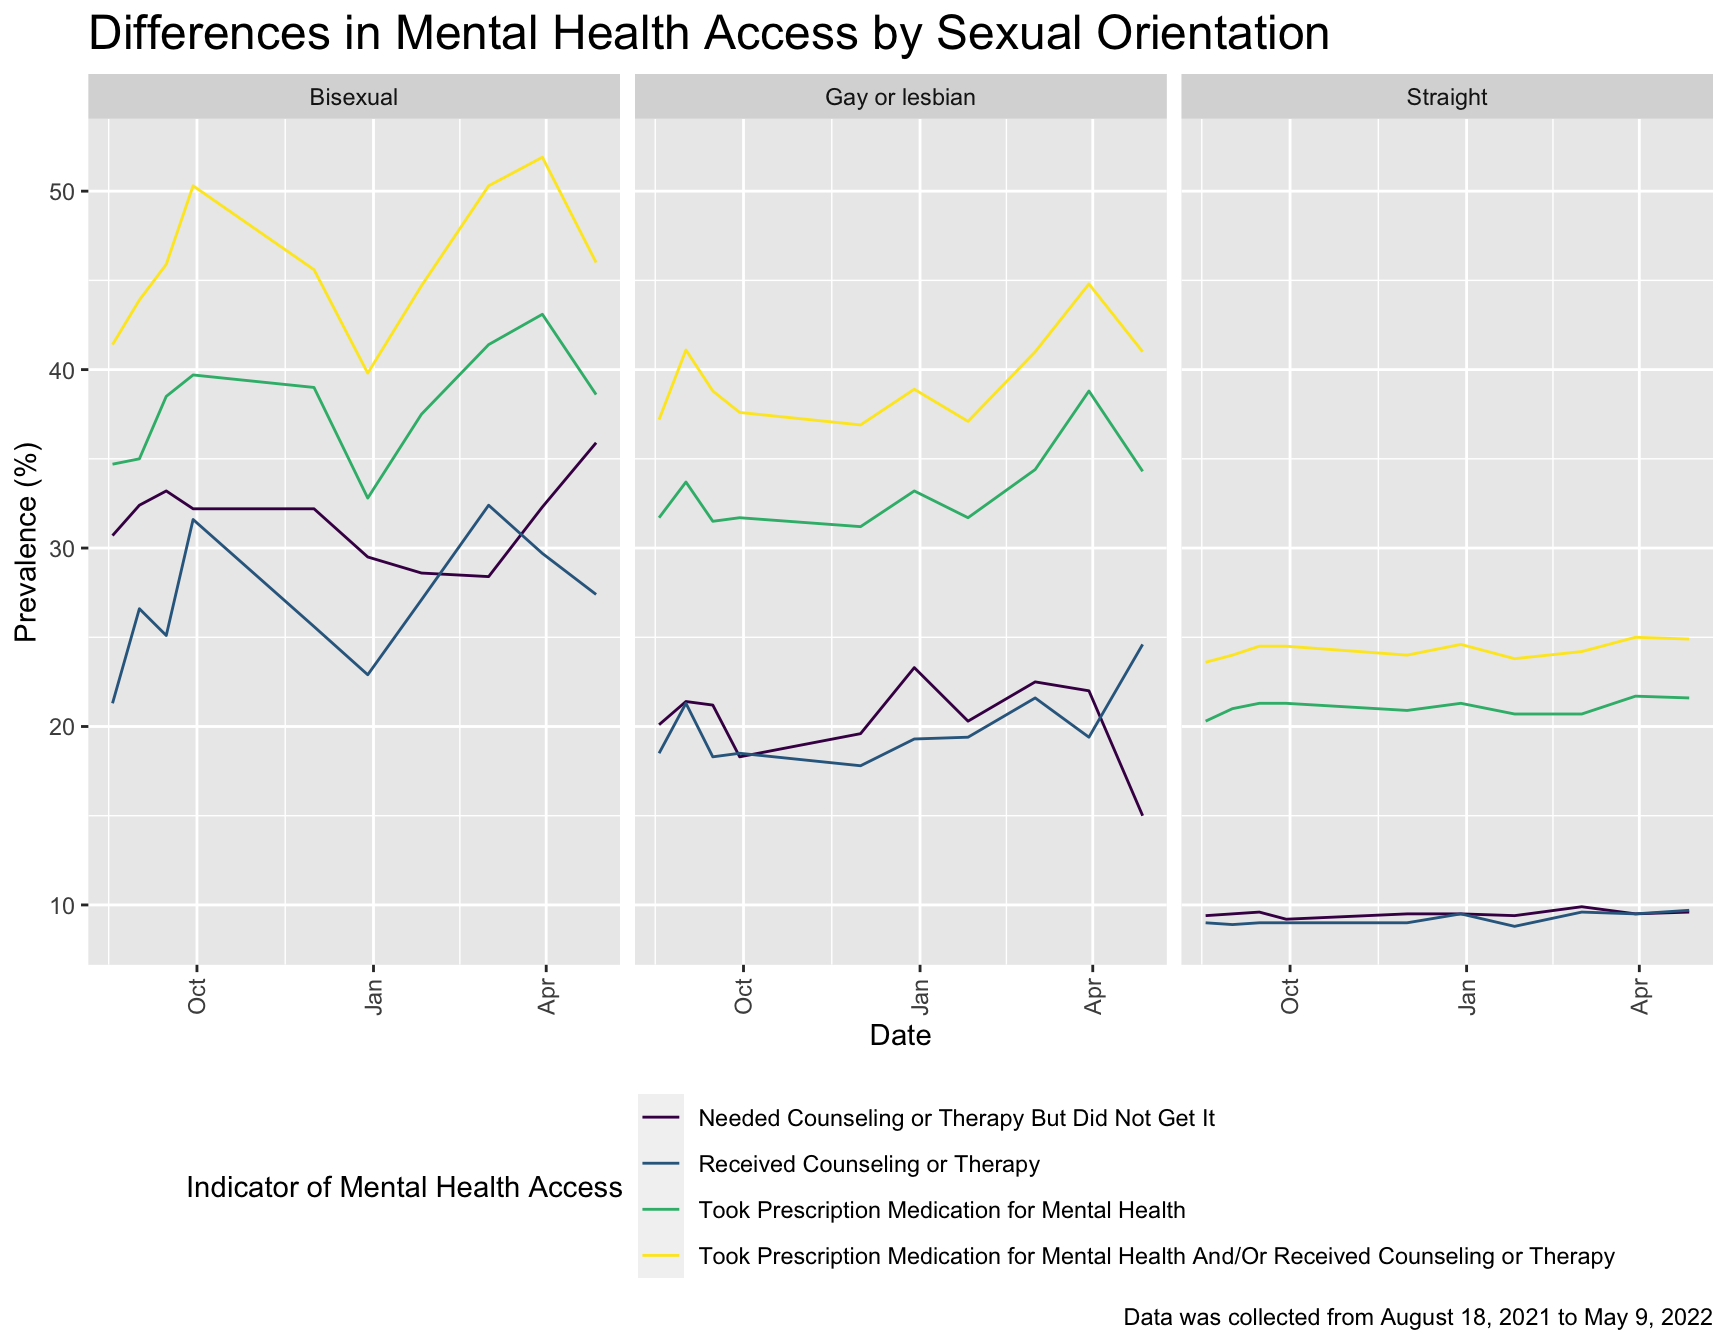
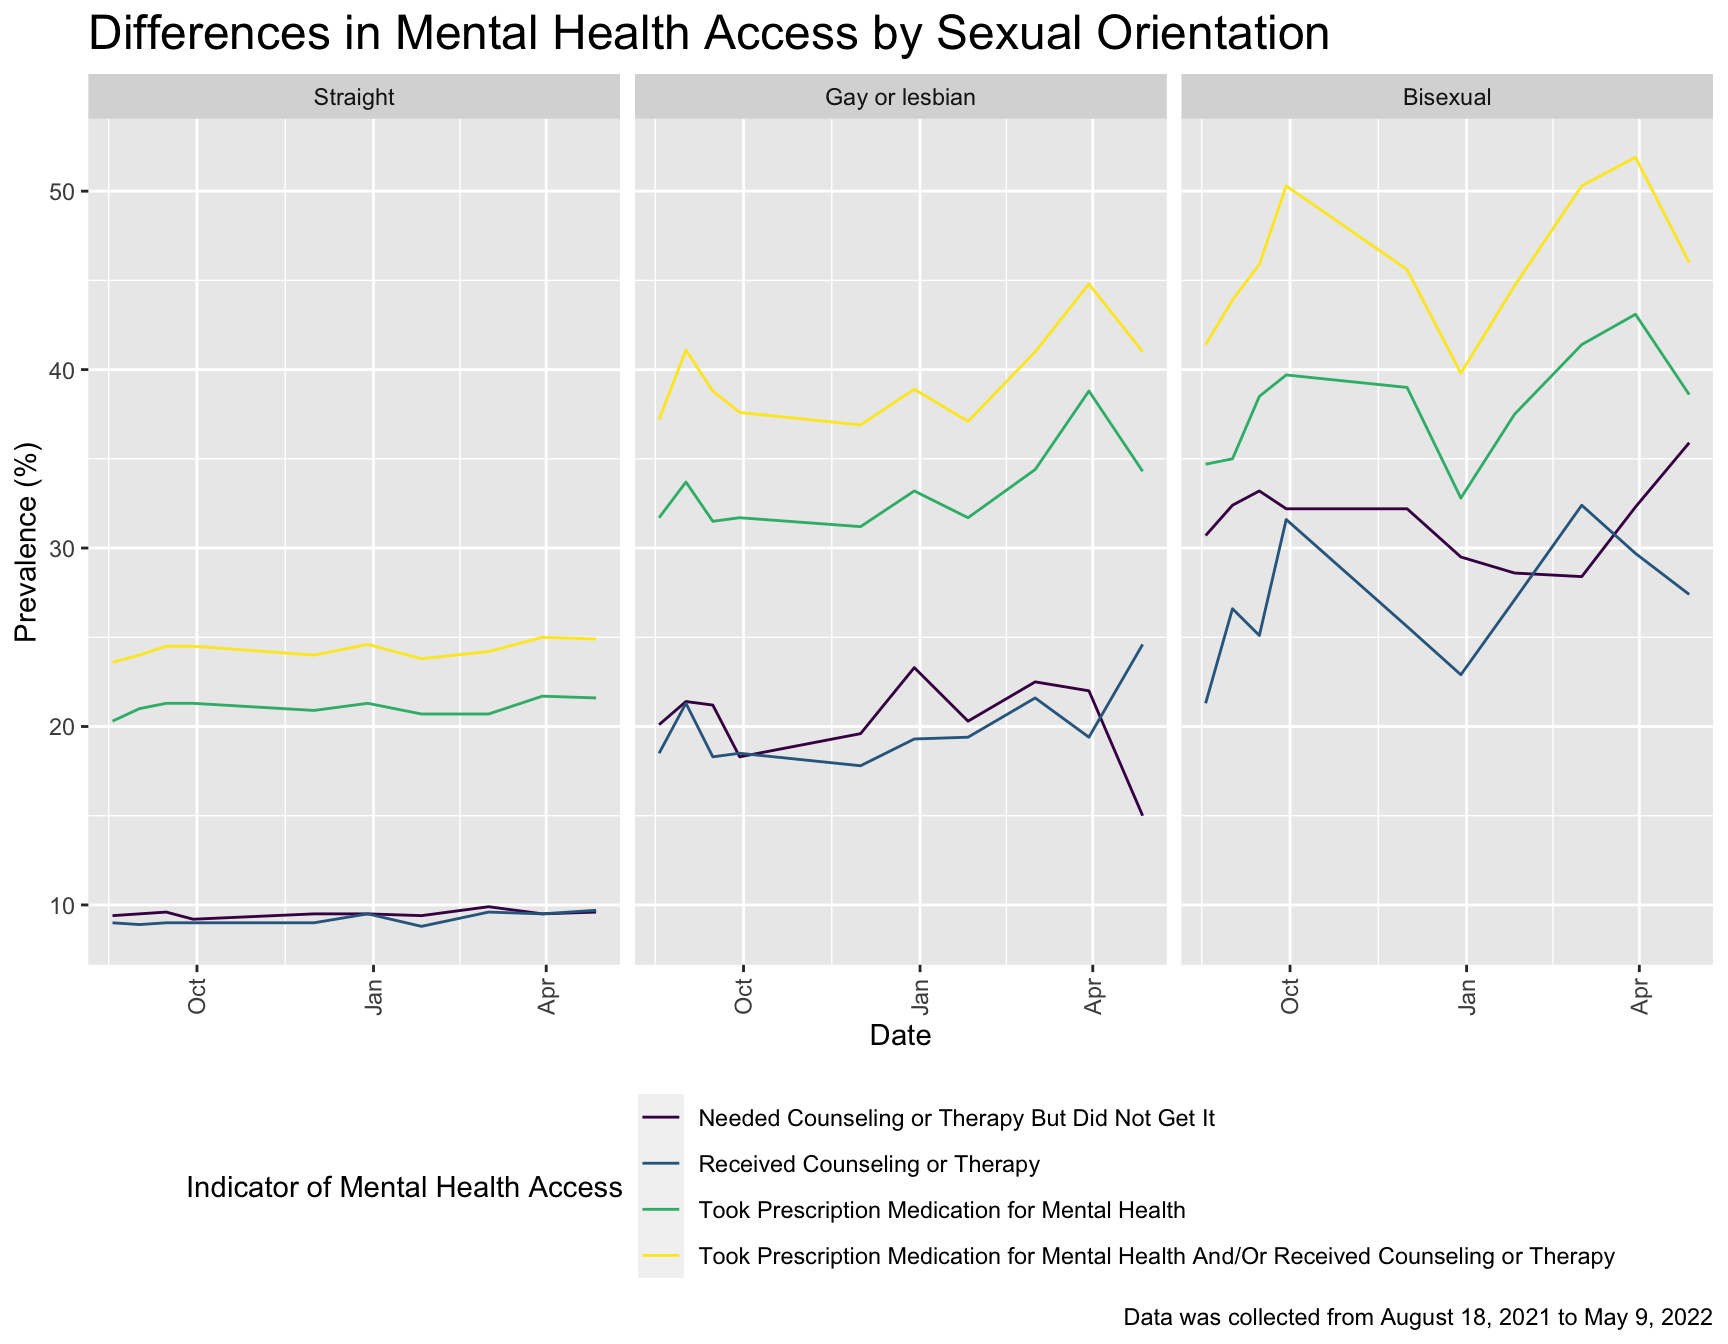
reordered demographic variables from lowest to highest values

diff --git a/eda_demographic.html b/eda_demographic.html
@@ -358,7 +358,7 @@ div.tocify {
   <a href="about.html">About Us</a>
 </li>
 <li>
-  <a href="http://github.com/&lt;romoashley/p8105_final_mental_health">
+  <a href="https://github.com/romoashley/p8105_final_mental_health">
     <span class="fa fa-github fa-lg"></span>
      
   </a>
@@ -424,7 +424,7 @@ age_plot |&gt;
   scale_color_hue(h = c(100, 300)) +
   guides(color = guide_legend(nrow = 4)) # Adding the legend guide adjustment</code></pre>
 <p><img src="eda_demographic_files/figure-html/age-1.png" width="90%" /></p>
-<p>Critical findings:</p>
+<p><strong>Main findings:</strong></p>
 <p>Based on the graph, it is clear that among the age groups, 18-29 have
 the highest values across all the indicators. Especially for the
 indicator of taking prescription medication for mental health and or
@@ -477,37 +477,33 @@ ed_plot=
 #View the education plot
 ed_plot</code></pre>
 <p><img src="eda_demographic_files/figure-html/education-1.png" width="90%" /></p>
-<p>Critical findings:</p>
-<p>Among four education groups, the bachelor’s degree or higher and some
-college/ associate’s degree groups have the highest value of taking
+<p><strong>Main findings:</strong></p>
+<p>Among four education groups, the Bachelor’s degree or higher and some
+college/Associate’s degree groups have the highest rates of taking
 prescription medication for mental health and/or received counseling.
-This is because individuals with higher education typically have better
-jobs, more money, and many other benefits, including better health
-insurance, which leads to better access to quality mental health
-services than those with a lower education level. On the other hand,
-those who have a lower education level (high school diploma or GED and
-less than high school diploma groups) have the least value of needed
-counseling or therapy but did not get it and received counseling or
-therapy indicators because they might not have adequate resources to the
-services which resulting having the lowest values in term of the
-utilization of the counseling services.</p>
+This is likely because individuals with higher educational attainment
+typically have better jobs with higher salaries and better benefits such
+as health insurance with greater coverage, which leads to better access
+to quality mental health services than those with lower educational
+attainment.</p>
+<p>On the other hand, those who have a lower education level (high
+school diploma or GED and less than high school diploma groups) have the
+least value of needed counseling or therapy but did not get it and
+received counseling or therapy indicators because they might not have
+adequate resources to the services which resulting having the lowest
+values in term of the utilization of the counseling services.</p>
 </div>
 <div id="gender" class="section level2">
 <h2>Gender</h2>
-<p>Trends in mental health access by gender were stark. Women reported
-needing almost twice as much counseling or therapy for mental health as
-men, and these trends were consistent from 2020 to 2022.</p>
-<p>Women took more prescription medication for mental health and
-received more counseling or therapy for mental health than men. These
-trends slightly increased each year from 2020 to 2022.</p>
 <pre class="r"><code>tidydata |&gt;
   filter(
     group == &quot;Sex&quot;,
     state == &quot;United States&quot;) |&gt;
-  group_by(indicator, start_dates, subgroup) |&gt;
+  mutate(gender = forcats::fct_relevel(subgroup, c(&quot;Male&quot;, &quot;Female&quot;))) |&gt;
+  group_by(indicator, start_dates, gender) |&gt;
   ggplot(aes(x = start_dates, y = value, color = indicator)) +
   geom_line() +
-  facet_grid(. ~ subgroup) +
+  facet_grid(. ~ gender) +
   theme_gray() +
   theme(
     legend.position = &quot;bottom&quot;,
@@ -521,23 +517,73 @@ trends slightly increased each year from 2020 to 2022.</p>
     caption = &quot;Data was collected from August 19, 2020 to May 9, 2022&quot;,
     color = &quot;Indicator of Mental Health Access&quot;)</code></pre>
 <p><img src="eda_demographic_files/figure-html/gender-1.png" width="90%" /></p>
+<p><strong>Main findings:</strong></p>
+<p>Trends in mental health access by gender were stark. Women reported
+needing almost twice as much counseling or therapy for mental health as
+men, and these trends were consistent from 2020 to 2022. Women took more
+prescription medication for mental health and received more counseling
+or therapy for mental health than men. These trends slightly increased
+each year from 2020 to 2022.</p>
+</div>
+<div id="raceethnicity" class="section level2">
+<h2>Race/Ethnicity</h2>
+<p>The graph below explores differences in outcome variables by
+race/ethnicity.</p>
+<pre class="r"><code>tidydata |&gt;
+  filter(group == &quot;Race/Hispanic ethnicity&quot;, state == &quot;United States&quot;) |&gt;
+  mutate(race_ethnicity = forcats::fct_relevel(subgroup, c(&quot;Non-Hispanic Asian, single race&quot;, &quot;Non-Hispanic Black, single race&quot;, &quot;Hispanic or Latino&quot;, &quot;Non-Hispanic White, single race&quot;, &quot;Non-Hispanic, other races and multiple races&quot;))) |&gt;
+  mutate(
+    subgroup = replace(subgroup, subgroup == &quot;Non-Hispanic Asian, single race&quot;, &quot;Non-Hispanic Asian&quot;),
+    subgroup = replace(subgroup, subgroup == &quot;Non-Hispanic Black, single race&quot;, &quot;Non-Hispanic Black&quot;),
+    subgroup = replace(subgroup, subgroup == &quot;Non-Hispanic White, single race&quot;, &quot;Non-Hispanic White&quot;),
+    subgroup = replace(subgroup, subgroup == &quot;Non-Hispanic, other races and multiple races&quot;, &quot;Non-Hispanic Multi-racial&quot;)) |&gt;
+  group_by(indicator, start_dates, race_ethnicity) |&gt;
+  ggplot(aes(x = start_dates, y = value, color = indicator)) +
+  geom_line() +
+  facet_grid(. ~ race_ethnicity) +
+  theme_grey() +
+  theme(
+    legend.position = &quot;bottom&quot;,
+    plot.title = element_text(size = 18),
+    axis.text.x = element_text(angle = 90, vjust = 0.5, hjust = 1)) +
+  guides(color = guide_legend(nrow = 4)) +
+  labs(
+    x = &quot;Date&quot;,
+    y = &quot;Prevalence (%)&quot;,
+    title = &quot;Differences in Mental Health Access by Race/Ethnicity&quot;,
+    caption = &quot;Data was collected from August 19, 2020 to May 9, 2022&quot;,
+    color = &quot;Indicator of Mental Health Access&quot;)</code></pre>
+<p><img src="eda_demographic_files/figure-html/race%20ethnicity-1.png" width="90%" /></p>
+<p><strong>Main findings:</strong></p>
+<p>Trends by racial and ethnic groups were stark across all three years.
+Non-Hispanic multiracial group received the most prescription medication
+and/or counseling or therapy for mental health and needed counseling or
+therapy for mental health but did not receive it more than any other
+racial/ethnic group. Their outcomes worsened over time for all
+indicators, especially among those who took prescription medication for
+mental health, which increased 28% from August 2020 to May 2022.
+Non-Hispanic Black and Hispanic/Latino groups had very similar outcomes
+across all four indicators. Non-Hispanic Asians received and needed the
+least mental health care out of all racial/ethnic groups, although there
+was occasional variation in their outcomes over time. Non-Hispanic White
+group was the most consistent in their outcomes over time, especially
+for receiving counseling or therapy. This is likely because they had
+access to mental health as needed before the pandemic hit.</p>
 </div>
 <div id="sexual-orientation" class="section level2">
 <h2>Sexual Orientation</h2>
-<p>Mental health access strongly differed by sexual orientation.
-Bisexual Americans reported the highest trends in both taking
-prescription medication and/or receiving counseling for mental health
-and needing counseling or therapy but not receiving it. Their outcomes
-showed the most variation over time. Straight Americans consistently
-reported the least unmet need for counseling or therapy.</p>
+<p>The Household Pulse Survey started asking about sexual orientation
+mid-way through data collection; as such, data for sexuality was only
+available from August 2021 to May 2022.</p>
 <pre class="r"><code>tidydata |&gt;
     filter(group == &quot;Sexual orientation&quot;,
          state == &quot;United States&quot;,
          week_number %in% c(24:33)) |&gt;
-  group_by(start_dates, subgroup, indicator) |&gt;
+  mutate(sexual_orientation = forcats::fct_relevel(subgroup, c(&quot;Straight&quot;, &quot;Gay or lesbian&quot;, &quot;Bisexual&quot;))) |&gt;
+  group_by(start_dates, sexual_orientation, indicator) |&gt;
   ggplot(aes(x = start_dates, y = value, color = indicator)) +
   geom_line() +
-  facet_grid(. ~ subgroup) +
+  facet_grid(. ~ sexual_orientation) +
   theme_grey() +
   theme(
     legend.position = &quot;bottom&quot;,
@@ -551,40 +597,15 @@ reported the least unmet need for counseling or therapy.</p>
     caption = &quot;Data was collected from August 18, 2021 to May 9, 2022&quot;,
     color = &quot;Indicator of Mental Health Access&quot;)</code></pre>
 <p><img src="eda_demographic_files/figure-html/sexuality-1.png" width="90%" /></p>
-</div>
-<div id="raceethnicity" class="section level2">
-<h2>Race/Ethnicity</h2>
-<p>The graph below explores differences in outcome variables by
-race/ethnicity. Trends by racial and ethnic groups were stark across all
-three years. Non-Hispanic Multiracial Americans, closely followed by
-non-Hispanic White Americans, received the most prescription medication
-and/or counseling or therapy for mental health. However, non-Hispanic
-multiracial Americans needed counseling or therapy for mental health but
-did not receive it.</p>
-<pre class="r"><code>tidydata |&gt;
-  filter(group == &quot;Race/Hispanic ethnicity&quot;, state == &quot;United States&quot;) |&gt;
-  mutate(
-    subgroup = replace(subgroup, subgroup == &quot;Non-Hispanic Asian, single race&quot;, &quot;Non-Hispanic Asian&quot;),
-    subgroup = replace(subgroup, subgroup == &quot;Non-Hispanic Black, single race&quot;, &quot;Non-Hispanic Black&quot;),
-    subgroup = replace(subgroup, subgroup == &quot;Non-Hispanic White, single race&quot;, &quot;Non-Hispanic White&quot;),
-    subgroup = replace(subgroup, subgroup == &quot;Non-Hispanic, other races and multiple races&quot;, &quot;Non-Hispanic Multi-racial&quot;)) |&gt;
-  group_by(indicator, start_dates, subgroup) |&gt;
-  ggplot(aes(x = start_dates, y = value, color = indicator)) +
-  geom_line() +
-  facet_grid(. ~ subgroup) +
-  theme_grey() +
-  theme(
-    legend.position = &quot;bottom&quot;,
-    plot.title = element_text(size = 18),
-    axis.text.x = element_text(angle = 90, vjust = 0.5, hjust = 1)) +
-  guides(color = guide_legend(nrow = 4)) +
-  labs(
-    x = &quot;Date&quot;,
-    y = &quot;Prevalence (%)&quot;,
-    title = &quot;Differences in Mental Health Access by Race&quot;,
-    caption = &quot;Data was collected from August 19, 2020 to May 9, 2022&quot;,
-    color = &quot;Indicator of Mental Health Access&quot;)</code></pre>
-<p><img src="eda_demographic_files/figure-html/race%20ethnicity-1.png" width="90%" /></p>
+<p><strong>Main findings</strong>:</p>
+<p>Mental health access strongly differed by sexual orientation.
+Individuals who identify as bisexual reported the highest trends in all
+four indicators compared with gay or lesbian and straight Americans,
+although they were closely followed by individuals who identify as gay
+or lesbian. Outcomes in mental health access for individuals who
+identify as bisexual showed the most variation over time. Individuals
+who identify as straight reported the least unmet need for counseling or
+therapy, and their outcomes were consistent over the 9-month period.</p>
 </div>
 
 
